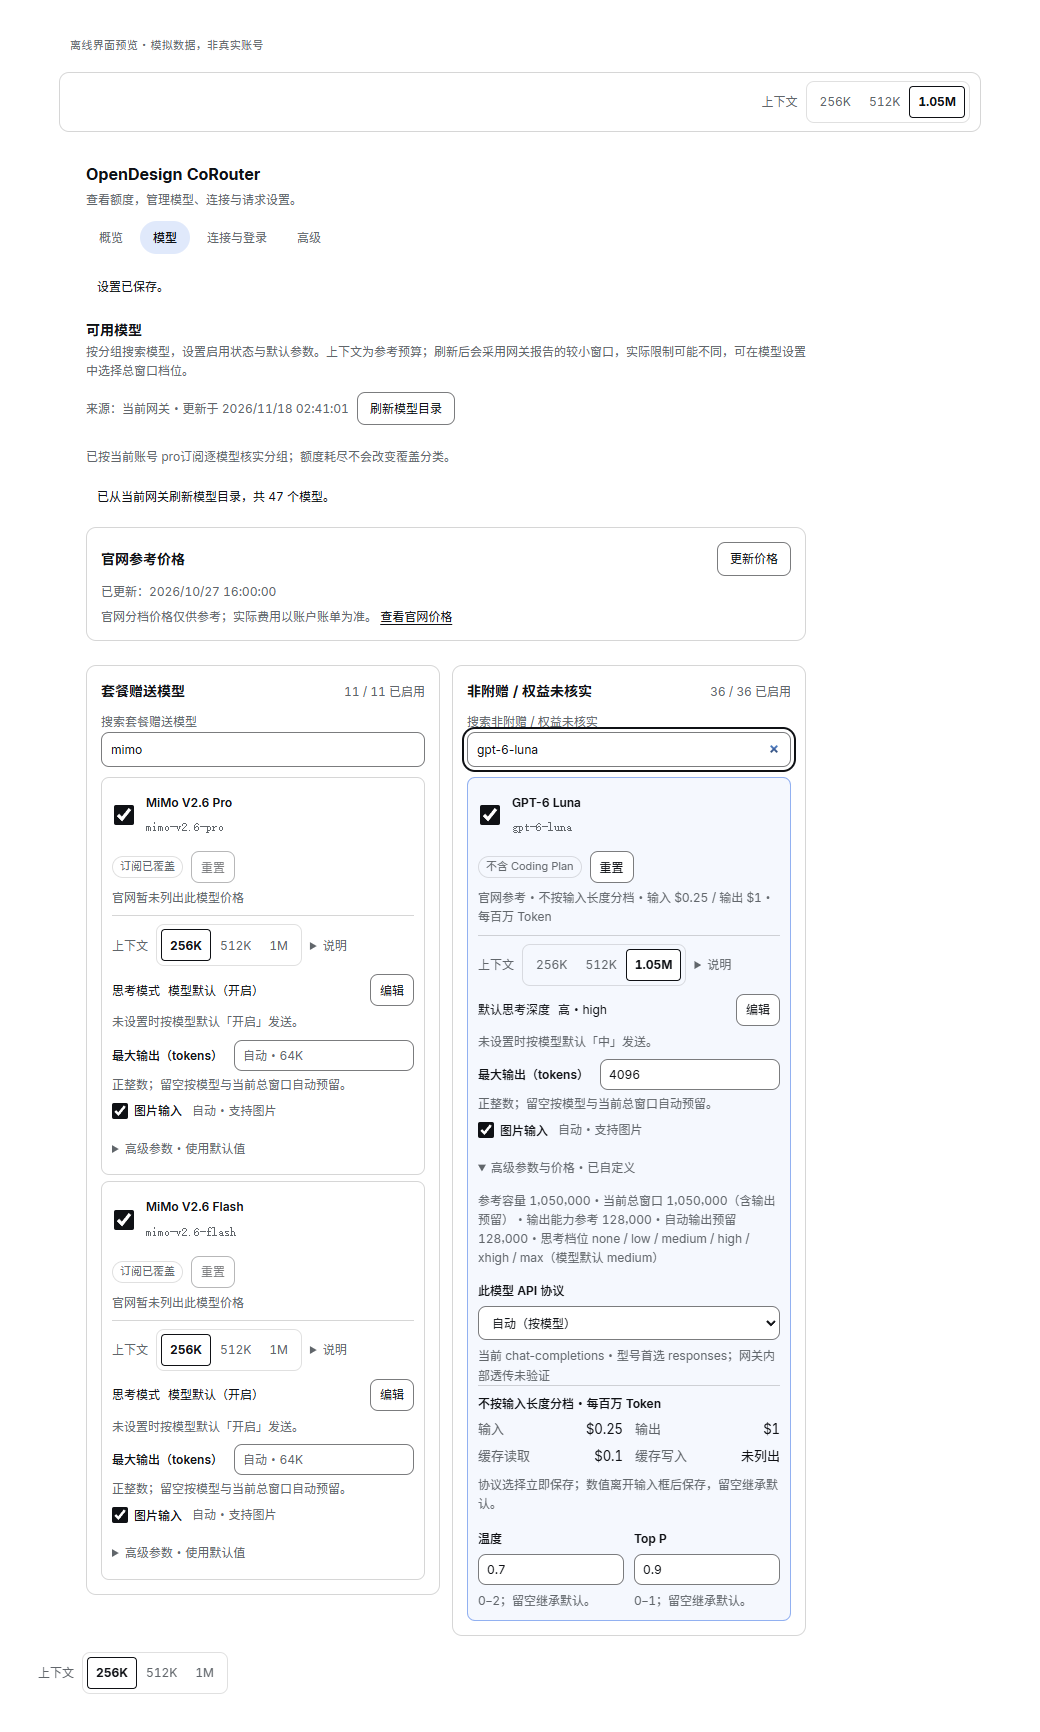
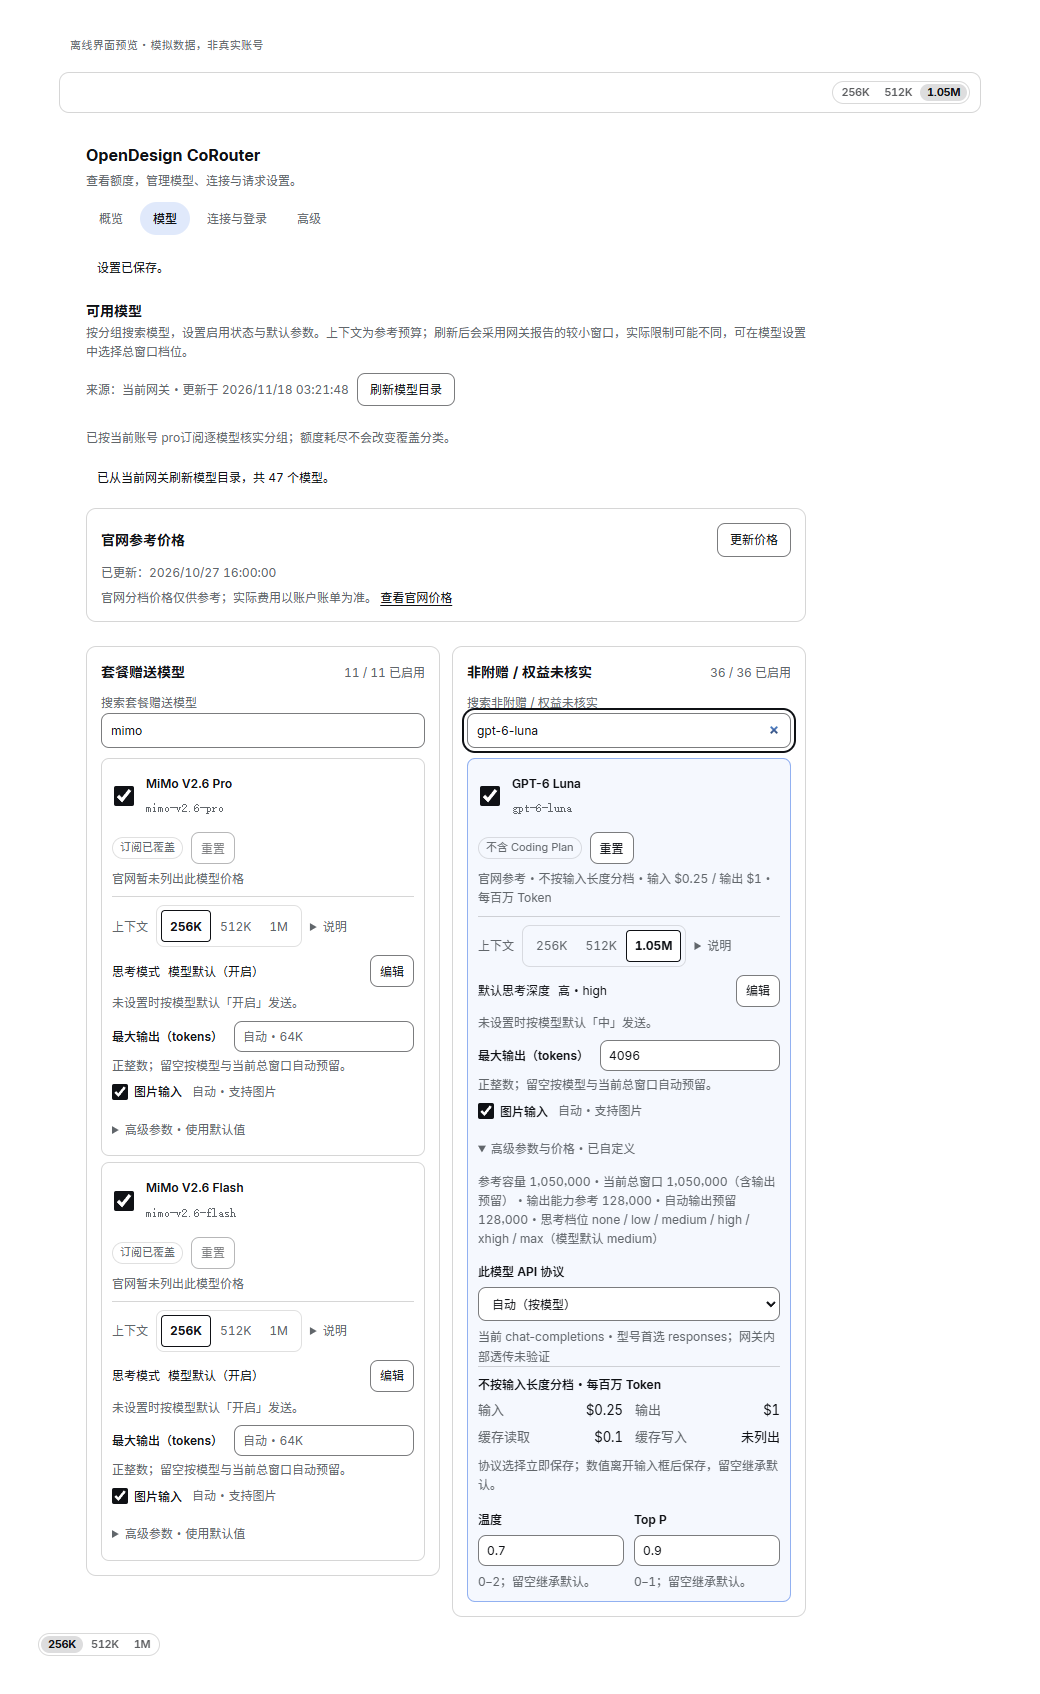
fix: match kxy chat context capsule geometry

diff --git a/src/client-context-quick.ts b/src/client-context-quick.ts
@@ -30,9 +30,18 @@ export function isCoRouterProvider(provider: string): boolean {
 }
 export const quickWindowLabel = formatContextShort;
 export const QUICK_CONTEXT_CSS = `
-.odc-quick{display:inline-flex;align-items:center;gap:var(--odc-control-gap,4px);flex-wrap:wrap;max-inline-size:100%;color:var(--dsw-alias-label-primary,CanvasText);font:12px/1.5 system-ui,sans-serif}
-.odc-quick .odc-context-control{margin:0;flex:none;max-inline-size:100%}.odc-quick .odc-context-caption{font-size:inherit}.odc-quick .odc-context-info{display:none}
-.odc-quick-feedback{font-size:inherit;color:var(--dsw-alias-label-secondary,CanvasText);max-inline-size:100%;overflow-wrap:anywhere}.odc-quick-error{color:var(--dsw-alias-state-error-primary,CanvasText)}
+.odc-quick{--odc-quick-space:2px;--odc-quick-gap:1px;--odc-quick-inset:7px;--odc-quick-radius:999px;--odc-quick-font:10.5px;--odc-quick-border:rgba(128,128,128,.3);position:relative;display:inline-flex;align-items:center;flex:none;max-inline-size:100%;color:inherit;font:inherit}
+.odc-quick .odc-context-control{--odc-control-font:var(--odc-quick-font);display:inline-flex;align-items:center;flex-wrap:nowrap;gap:var(--odc-quick-space);margin:0;flex:none;max-inline-size:100%;color:inherit}
+.odc-quick .odc-context-options{display:inline-flex;align-items:center;gap:var(--odc-quick-gap);padding:var(--odc-quick-space);border:1px solid var(--odc-quick-border);border-radius:var(--odc-quick-radius);background:transparent}
+.odc-quick .odc-context-option{min-height:0;padding:var(--odc-quick-space) var(--odc-quick-inset);border:0;border-radius:var(--odc-quick-radius);font:inherit;font-size:var(--odc-quick-font);font-weight:500;color:inherit;opacity:.68;background:transparent;cursor:pointer}
+.odc-quick .odc-context-option[aria-pressed=true]{border:0;background:color-mix(in srgb,currentColor 14%,transparent);color:inherit;font-weight:700;opacity:1;cursor:default}
+.odc-quick .odc-context-option:hover:not(:disabled){background:transparent;color:inherit}.odc-quick .odc-context-option[aria-pressed=true]:hover:not(:disabled){background:color-mix(in srgb,currentColor 14%,transparent)}
+.odc-quick[data-disabled=true] .odc-context-control{opacity:.55}.odc-quick .odc-context-option:disabled{cursor:default;opacity:.68}.odc-quick .odc-context-option[aria-pressed=true]:disabled{opacity:1}.odc-quick .odc-context-option:focus-visible{outline:2px solid var(--dsw-alias-brand-primary,Highlight);outline-offset:var(--odc-quick-space)}
+.odc-quick .odc-context-caption,.odc-quick .odc-context-info{display:none}
+.odc-quick .odc-context-note,.odc-quick-feedback{position:absolute;width:1px;height:1px;padding:0;overflow:hidden;clip-path:inset(50%);white-space:nowrap;pointer-events:none}
+.odc-quick[data-error=true] .odc-context-options{border-color:var(--dsw-alias-state-error-primary,CanvasText)}
+.odc-quick[data-error=true]:is(:hover,:focus-within)::after{content:attr(data-error-message);position:absolute;inset-inline-start:0;bottom:calc(100% + 6px);z-index:var(--odc-quick-tooltip-layer,50);width:max-content;max-width:min(260px,calc(100vw - 24px));box-sizing:border-box;padding:8px;border:1px solid var(--dsw-alias-state-error-primary,CanvasText);border-radius:6px;background:var(--dsw-alias-bg-layer-1,Canvas);color:var(--dsw-alias-label-primary,CanvasText);font:11px/1.5 system-ui,sans-serif;white-space:normal;overflow-wrap:anywhere;pointer-events:none}
+@media(forced-colors:active){.odc-quick .odc-context-options{border-color:ButtonText}.odc-quick .odc-context-option[aria-pressed=true]{background:Highlight;color:HighlightText;forced-color-adjust:none}.odc-quick .odc-context-option:disabled{color:GrayText;opacity:1}}
 `;
 
 /** Each slot follows its Session; the shared writer changes only that model's defaults. */
@@ -122,7 +131,8 @@ function ContextQuickControl({ provider, modelId, selecting, directoryUnavailabl
     if (saved) setNotice('已保存');
     else setError('设置未保存，已恢复原值，请重试。');
   };
-  return h('div', { className: 'odc-quick', 'aria-label': `CoRouter 上下文 · ${modelId}`, title: `修改 ${modelId} 的默认窗口，使用此模型的其他会话同步。` },
+  return h('div', { className: 'odc-quick', 'data-error': error !== undefined, 'data-error-message': error, 'data-disabled': reason !== undefined,
+    'aria-label': `CoRouter 上下文 · ${modelId}`, title: `${error ?? reason ?? ''} 修改 ${modelId} 的默认窗口，使用此模型的其他会话同步。`.trim() },
     h(ContextWindowControl, { id, reference: row?.contextWindow, settings, disabled: reason !== undefined && !pending, pending,
       ...(reason === undefined ? {} : { reason }), onSelect: tier => { void choose(tier); } }),
     loadError ? h('button', { type: 'button', className: 'odc-button odc-button-small', onClick: () => { void loadStatus(); } }, '重试读取模型信息') : null,

diff --git a/test/fixtures/kxy-context-reference.html b/test/fixtures/kxy-context-reference.html
@@ -1,0 +1,8 @@
+<!-- Visual reference: dsh-kxyai-provider 0.6.3, client.js KxyaiContextTierPicker.
+     Copyright (c) 2026 dsh-kxyai-provider contributors; MIT, see THIRD_PARTY_NOTICES.md.
+     Fixed reference markup for offline geometry comparison, not application policy. -->
+<span data-kxy-context-reference role="group" aria-label="kxy 上下文参考" style="display:inline-flex;align-items:center;gap:1px;padding:2px;border:1px solid rgba(128,128,128,.3);border-radius:999px;background:transparent;opacity:1">
+  <button type="button" aria-pressed="true" style="padding:2px 7px;border:0;border-radius:999px;font:inherit;font-size:10.5px;font-weight:700;cursor:default;background:color-mix(in srgb,currentColor 14%,transparent);color:inherit;opacity:1;white-space:nowrap">256K</button>
+  <button type="button" aria-pressed="false" style="padding:2px 7px;border:0;border-radius:999px;font:inherit;font-size:10.5px;font-weight:500;cursor:pointer;background:transparent;color:inherit;opacity:.68;white-space:nowrap">512K</button>
+  <button type="button" aria-pressed="false" style="padding:2px 7px;border:0;border-radius:999px;font:inherit;font-size:10.5px;font-weight:500;cursor:pointer;background:transparent;color:inherit;opacity:.68;white-space:nowrap">1M</button>
+</span>

diff --git a/src/device-auth.ts b/src/device-auth.ts
@@ -3,7 +3,7 @@
 // official compatibility guarantee). No browser automation or credential discovery.
 export interface DeviceTokens { controlKey: string; runtimeKey: string }
 export const DEVICE_AUTH_ENDPOINT = 'https://amr-api.open-design.ai/api/v1/cli/device-authorizations';
-export const DEVICE_AUTH_PLUGIN_VERSION = '0.3.0';
+export const DEVICE_AUTH_PLUGIN_VERSION = '0.3.1';
 export const DEVICE_REQUEST_TIMEOUT_MS = 20_000;
 /** One bounded launch step of the temporary activation window. */
 export const DEVICE_OPEN_TIMEOUT_MS = 30_000;

diff --git a/AGENTS.md b/AGENTS.md
@@ -9,7 +9,7 @@ Required behavior:
 - Configuration schemas survive the Host's `volatileForm` projection and repeated JSON rehydration. Transform callbacks keep a self-contained JSON serializer after every reconstruction; the browser fixture consumes the real Host-projected schema. Configuration and Remote field limits agree.
 - Settings prioritize actionable connection status and controls; model parameters and explanatory details are progressively disclosed. Disabled controls explain loading, unavailable, or read-only state. Explicit model output edits must fit the effective context budget; the inherited catalog maximum is not the actual default reservation. Resolved context metadata reports the full combined window; the Host reserves output capacity. Catalog context values follow [model context evidence](docs/model-context.md); a gateway-reported smaller window may lower the reference, user overrides win, and neither is a verified CoRouter limit. Discovery does not replace the catalog's output-capacity field with gateway budgets; the automatic output reservation may change with the context window.
 - The context window has three model-relative tiers, generated only from the exact model's current known reference. For a decimal 1000000 window the tiers are 256000 / 512000 / 1000000; for binary 1048576 they are 262144 / 524288 / 1048576; for 262144 they are 65536 / 131072 / 262144. Maximum always equals the full known reference. Default and extended use familiar quarter/half-sized subdivisions (decimal K unless the reference is an exact binary power), capped by that reference; duplicate tiny tiers are not selectable. Unknown references stay unknown in Host metadata and both controls, with no fabricated maximum; only default remains available to clear an old override. Each tier is a combined input-plus-output working window. The reference stays unchanged in the catalog; a smaller gateway reference recomputes all three tiers. Automatic output reservation is at most one quarter of the window and never exceeds the model's output cap. Store the selected `ModelSettings.contextTier` (`default` / `extended` / `maximum`) separately from mutually exclusive legacy `contextWindow`. Legacy numeric windows always keep their exact uncapped value and custom state, even when equal to a tier size. Choosing a tier clears the numeric override atomically; default removes both fields. Reset returns to that model's default tier. Explicit output conflicts are rejected without silently rewriting values; shape-only serialized validation cannot invent model capacity, so model-aware UI and adapter validation enforce tier limits. Prepared calls retain their captured window. Tiers do not widen server or gateway limits.
-- The chat view carries a context quick control next to the model selector. It appears only when the session's selected model belongs to one of this plugin's two providers, it follows the session's own model directory rather than any global "last used" model, and it shows that model's effective total window. It renders the same compact inline three-button capacity control as settings and writes the same global model default: other sessions using that model see the change, and requests that were already prepared keep their snapshot. Capacity is visible directly without a popup; arrow/Home/End keys move focus, Enter/Space save, and precise tokens remain accessible in descriptions. Both entry points write through one coordinator that serializes configuration writes, locks a pending field in both surfaces, and rebases the model-settings diff onto the host's current map, so concurrent changes to other models or to other fields of the same model survive. Switching the model remounts the control for the new model, and a late result or feedback from the previous model never reaches the new one. Legacy numeric windows, reference clamping, explicit-output conflicts that keep the original value, and the pending/rollback rules behave the same in both surfaces.
+- The chat view carries a context quick control next to the model selector. It appears only when the session's selected model belongs to one of this plugin's two providers, it follows the session's own model directory rather than any global "last used" model, and it shows that model's effective total window. It shares the controlled three-tier interaction with settings but uses the kxy 0.6.3 chat capsule geometry (2px padding, 1px gap, 10.5px type, 999px radius, capacity text only, filled selection without an inner outline). Chat must not inherit the settings target height or add inline save/status paragraphs; preserve accessible announcements and failure feedback. Offline verification compares it against the attributed kxy reference in the same font and theme. It writes the same global model default: other sessions using that model see the change, and requests that were already prepared keep their snapshot. Capacity is visible directly without a popup; arrow/Home/End keys move focus, Enter/Space save, and precise tokens remain accessible in descriptions. Both entry points write through one coordinator that serializes configuration writes, locks a pending field in both surfaces, and rebases the model-settings diff onto the host's current map, so concurrent changes to other models or to other fields of the same model survive. Switching the model remounts the control for the new model, and a late result or feedback from the previous model never reaches the new one. Legacy numeric windows, reference clamping, explicit-output conflicts that keep the original value, and the pending/rollback rules behave the same in both surfaces.
 - Settings use DSH semantic colors, including explicit native select option colors and a host-theme-aligned color scheme, even when the operating system uses the opposite scheme. Check enabled text and dropdown options in light, dark and forced-color modes.
 - Layout adapts to the available settings-pane width as well as the viewport. Model groups size independently, and secondary labels and model actions remain readable and usable in a narrow pane.
 - Quota refresh, window recovery and subscription end show relative time with their exact timestamps accessible separately; countdowns track the actual scheduled instant, stop with the UI, and never imply an unknown refresh or recovery.

diff --git a/docs/ui-design.md b/docs/ui-design.md
@@ -15,7 +15,7 @@
 
 分段使用原生按钮和 `aria-pressed`，选中项同时有边框、底色与字重。方向键、Home、End 仅移动焦点，Enter 和空格才提交，Tab 可正常离开。三个容量按钮保持同行，面板变窄时标签和说明可换行；不依赖弹层定位和外部关闭事件。保存过程中组内锁定并显示忙态，完成后在原控件仍拥有焦点时恢复焦点，避免打断用户转往其他控件。
 
-聊天模型选择框旁直接使用同一分段控件，仅对当前会话选择的 CoRouter 模型显示，取该会话自己的模型目录。改动写入此型号的共享默认，其他使用此型号的会话同步；已准备请求保留快照。切换模型重挂控件，迟到的旧模型状态、提示或保存结果不会写入新模型。两个入口共用写入协调器，按字段差异合并到宿主当前映射，保留其他模型及同型号其他字段的并发修改。
+聊天模型选择框旁复用同一受控分段逻辑，但使用 kxy 0.6.3 的独立紧凑胶囊样式：2px 外边距、1px 分段间距、10.5px 文字、999px 圆角，按钮仅显示容量，选中为 14% 当前文字色淡底加粗，无方框选中边。它不继承设置页的 32px 点击高度，不显示额外标签或占位状态段落；失败通过边框和提示表达，正常保存反馈使用无障碍通知。仅对当前会话选择的 CoRouter 模型显示，取该会话自己的模型目录。改动写入此型号的共享默认，其他使用此型号的会话同步；已准备请求保留快照。切换模型重挂控件，迟到的旧模型状态、提示或保存结果不会写入新模型。两个入口共用写入协调器，按字段差异合并到宿主当前映射，保留其他模型及同型号其他字段的并发修改。
 
 思考行区分四种能力：有离散强度、仅开关、固定开启、尚未核实。MiMo 与 Qwen3.7 等开关型显示“开启 / 关闭”，不将内部 wire 值 `high` 当成真实强度。Kimi K2.7 显示固定思考；未知型号直接说明未核实。协议暂不提供控制时说明协议限制，不据此断言模型不思考。原始能力与当前协议有效能力分别保留，切回支持协议时选项恢复。默认思考采用编辑、保存、取消；草稿不影响请求，失败保留草稿并同时展示外部变化，旧不兼容设置仍可清除。
 

diff --git a/THIRD_PARTY_NOTICES.md b/THIRD_PARTY_NOTICES.md
@@ -1,6 +1,6 @@
 # 第三方代码与资料
 
-本项目的消息/图片兼容处理、套餐模型元数据、思考增量拼写兼容与配置写入的重试策略参考 [dsh-opendesign-go 0.1.11](https://github.com/EliteOtaku/dsh-opendesign-go)。额度归一化及登录生命周期的基础处理改编自 [dsh-subusage 0.16.2](https://github.com/KouzakiUmi/dsh-subusage)；临时授权窗口的 Chrome 启动策略改编自 [dsh-subusage 0.16.3](https://github.com/KouzakiUmi/dsh-subusage) 的 `lib/cookie-login.js`。空轮判定参考 [dsh-empty-turn-guard 0.4.0](https://github.com/FYTXY/dsh-empty-turn-guard)。设置布局参考 [dsh-code-pill](https://github.com/KouzakiUmi/dsh-code-pill)；紧凑上下文分段和参数层级参考 `dsh-kxyai-provider 0.6.3` 的交互设计，容量策略和配置写入仍由本项目实现。
+本项目的消息/图片兼容处理、套餐模型元数据、思考增量拼写兼容与配置写入的重试策略参考 [dsh-opendesign-go 0.1.11](https://github.com/EliteOtaku/dsh-opendesign-go)。额度归一化及登录生命周期的基础处理改编自 [dsh-subusage 0.16.2](https://github.com/KouzakiUmi/dsh-subusage)；临时授权窗口的 Chrome 启动策略改编自 [dsh-subusage 0.16.3](https://github.com/KouzakiUmi/dsh-subusage) 的 `lib/cookie-login.js`。空轮判定参考 [dsh-empty-turn-guard 0.4.0](https://github.com/FYTXY/dsh-empty-turn-guard)。设置布局参考 [dsh-code-pill](https://github.com/KouzakiUmi/dsh-code-pill)；聊天上下文胶囊样式改编自 `dsh-kxyai-provider 0.6.3` 的 `KxyaiContextTierPicker`，保留其 MIT 声明，离线夹具保留相同样式作为对比参考。容量策略和配置写入仍由本项目实现。
 
 离线主题夹具使用 [DeepSeek Harness 官方主题令牌](https://github.com/deepseek-ai/deepseek-harness/blob/22ddee3792402c3e70ec5f86a63c3e3e895a2f60/packages/client/ui-theme/src/styles/design-platform.css)，仅供测试，不随插件安装包分发。
 
@@ -36,6 +36,7 @@ Copyright (c) 2026 EliteOtaku
 Copyright (c) 2026 KouzakiUmi
 Copyright (c) 2026 FYTXY
 Copyright (c) 2026 DeepSeek
+Copyright (c) 2026 dsh-kxyai-provider contributors
 Copyright (c) 2025 Colin McDonnell
 
 Permission is hereby granted, free of charge, to any person obtaining a copy

diff --git a/docs/changelog.md b/docs/changelog.md
@@ -1,5 +1,11 @@
 # 更新记录
 
+## 0.3.1
+
+- 聊天区上下文切换器对齐 kxy 0.6.3 的紧凑胶囊：2px 外边距、1px 间距、10.5px 文字、999px 圆角、淡底加粗选中态，不再继承设置页的 32px 按钮高度与方框描边。
+- 聊天胶囊只显示容量，移除额外的上下文标签；保存状态改为无障碍通知，失败使用边框与提示，避免展开长状态文字挤占模型选择器。
+- 离线夹具对比两者在相同字体和主题下的真实宽高、内边距、间距、圆角和边框，并提供浅色、深色同排截图；动态容量、共享默认、回滚和键盘行为保持一致。
+
 ## 0.3.0
 
 - 上下文改为参考 kxy 的一行容量分段，设置页与聊天直接选择，移除切换容量的大弹层；保留逐型号动态三档、精确数值提示、共享默认、待保存与回滚。
